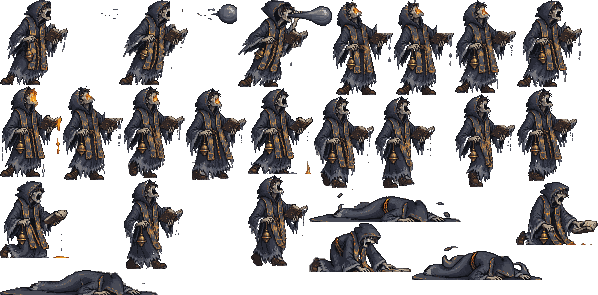
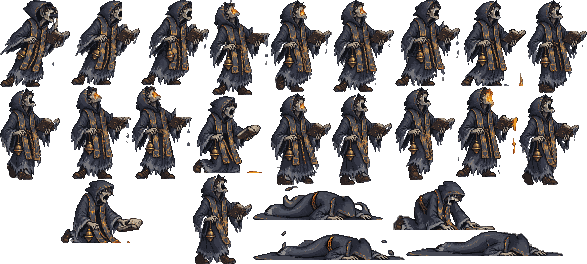
Pulisce le animazioni di Lampionaio, Ricaduto e Cantore e fa nascere il grumo del Cantore nella sua bocca, togliendolo dall'animazione dello sputo

diff --git a/src/sistema/nemici-stanza.ts b/src/sistema/nemici-stanza.ts
@@ -78,6 +78,9 @@ export class NemiciStanza {
   private gVY = new Float32Array(MAX_GRUMI);
   private gSfiorato = new Uint8Array(MAX_GRUMI);
   private gVita = new Float32Array(MAX_GRUMI); // secondi da quando è partito (cerca solo all'inizio)
+  // dove si disegna appena sputato, rispetto al punto a terra: scostamento in orizzontale e altezza (la bocca del Cantore)
+  private gBX = new Float32Array(MAX_GRUMI);
+  private gBH = new Float32Array(MAX_GRUMI);
   // pozze di cera a terra: dove, e quanti secondi restano
   pozze = 0;
   readonly pX = new Float32Array(MAX_POZZE);
@@ -297,7 +300,8 @@ export class NemiciStanza {
             this.tempo[i] = R.recupero;
           }
         } else if (this.tempo[i] <= 0) {
-          this.lancia(o.x[i] + this.dirX[i] * C.raggio, o.y[i] + this.dirY[i] * C.raggio, this.dirX[i], this.dirY[i]);
+          const sx = o.x[i] + this.dirX[i] * C.raggio, lato = this.verso[i] ? -1 : 1;
+          this.lancia(sx, o.y[i] + this.dirY[i] * C.raggio, this.dirX[i], this.dirY[i], o.x[i] + lato * C.bocca.lancio[0] - sx, C.bocca.lancio[1]);
           this.stato[i] = STATO.recupero;
           this.tempo[i] = C.recupero;
           this.ricarica[i] = C.ricarica;
@@ -367,7 +371,8 @@ export class NemiciStanza {
     o.togliStanza(i);
   }
 
-  private lancia(x: number, y: number, dx: number, dy: number): void {
+  /** Un grumo parte da (x, y) a terra in direzione (dx, dy); si disegna dalla bocca (bx px di lato, bh in alto) e scende. */
+  private lancia(x: number, y: number, dx: number, dy: number, bx: number, bh: number): void {
     suona('sparo');
     if (this.grumi >= MAX_GRUMI) return;
     const k = this.grumi++;
@@ -377,6 +382,8 @@ export class NemiciStanza {
     this.gVY[k] = dy * C.grumo.velocita;
     this.gSfiorato[k] = 0;
     this.gVita[k] = 0;
+    this.gBX[k] = bx;
+    this.gBH[k] = bh;
   }
 
   /**
@@ -464,6 +471,8 @@ export class NemiciStanza {
     this.gVY[k] = this.gVY[u];
     this.gSfiorato[k] = this.gSfiorato[u];
     this.gVita[k] = this.gVita[u];
+    this.gBX[k] = this.gBX[u];
+    this.gBH[k] = this.gBH[u];
   }
 
   /** Si può colpire: in campo, con la salute, non a terra. */
@@ -574,7 +583,7 @@ export class NemiciStanza {
       else if (this.bianco[i] > 0 || o.inLampo(i)) sp.setTint(0xffffff).setTintMode(Phaser.TintModes.FILL);
       else if (st === STATO.avviso && Math.floor(this.orologio * 12) % 2 === 0) sp.setTint(colore(o.tipo[i] === ID_RICADUTO ? col.bordo : col.linea)).setTintMode(Phaser.TintModes.ADD);
       else sp.clearTint();
-      if (st === STATO.avviso || this.colpo[i] > 0) this.disegnaAvviso(t, i, x, y);
+      if (st === STATO.avviso || this.colpo[i] > 0) this.disegnaAvviso(t, s, i, x, y);
       if (st !== STATO.aTerra && o.salute[i] < o.saluteMassima[i]) {
         const L = B.larghezza * 2, H = B.altezza * 2, bx = x - Math.floor(L / 2), by = y + B.distanza;
         const pieno = Math.round((B.larghezza - 2) * Math.max(0, o.salute[i] / o.saluteMassima[i])) * 2;
@@ -613,20 +622,23 @@ export class NemiciStanza {
     for (let k = 0; k < this.grumi; k++) {
       const x = Math.round(this.gX[k]), y = Math.round(this.gY[k]);
       t.fillStyle(0x000000).fillEllipse(x, y, 2 * C.grumo.raggio, C.grumo.raggio); // ombra a terra
-      const sp = this.gSprite[k].setPosition(x, y - C.grumo.altezza).setVisible(true);
+      // appena sputato è alla bocca: scende in volo fino alla sua altezza (C.bocca.discesa)
+      const resta = 1 - Math.min(1, this.gVita[k] / C.bocca.discesa), e = resta * resta;
+      const gx = Math.round(x + this.gBX[k] * e), alto = Math.round(C.grumo.altezza + (this.gBH[k] - C.grumo.altezza) * e);
+      const sp = this.gSprite[k].setPosition(gx, y - alto).setVisible(true);
       if (sp.texture.key === E.grumo) sp.setFrame(String(Math.floor(this.gVita[k] * E.fps) % (sp.texture.frameTotal - 1)));
       // la scia: qualche goccia che resta indietro, sempre più piccola
       const v = Math.hypot(this.gVX[k], this.gVY[k]) || 1, ux = this.gVX[k] / v, uy = this.gVY[k] / v;
       for (let n = 1; n <= E.scia; n++) {
         const d = C.grumo.raggio + n * 5, l = Math.max(1, 4 - n);
-        s.fillStyle(colore(n === 1 ? col.grumo : col.grumoBordo)).fillRect(Math.round(x - ux * d - l / 2), Math.round(y - C.grumo.altezza - uy * d - l / 2), l, l);
+        s.fillStyle(colore(n === 1 ? col.grumo : col.grumoBordo)).fillRect(Math.round(gx - ux * d - l / 2), Math.round(y - alto - uy * d - l / 2), l, l);
       }
     }
     for (let k = this.grumi; k < MAX_GRUMI; k++) this.gSprite[k].setVisible(false);
   }
 
   /** Avviso a terra: lo spicchio del graffio che si riempie, o la linea del canto fino al muro. */
-  private disegnaAvviso(g: Phaser.GameObjects.Graphics, i: number, x: number, y: number): void {
+  private disegnaAvviso(g: Phaser.GameObjects.Graphics, sopra: Phaser.GameObjects.Graphics, i: number, x: number, y: number): void {
     const col = NEMICI_STANZA.colori, a = Math.atan2(this.dirY[i], this.dirX[i]);
     if (this.orda.tipo[i] === ID_RICADUTO) {
       const mezza = Phaser.Math.DegToRad(R.graffio.ampiezza / 2), r = R.graffio.raggio;
@@ -639,13 +651,13 @@ export class NemiciStanza {
     }
     // la linea del Cantore: dal Cantore al muro, nella direzione del grumo; lampeggia, poi resta accesa nell'ultimo terzo
     if (this.colpo[i] > 0) return;
+    // il grumo che si forma nella bocca del Cantore mentre canta (sopra lo sprite)
+    const r = Math.max(2, Math.round(C.grumo.raggio * (1 - Math.max(0, this.tempo[i]) / C.avviso)));
+    sopra.fillStyle(colore(col.grumo)).fillCircle(x + (this.verso[i] ? -1 : 1) * C.bocca.canto[0], y - C.bocca.canto[1], r);
     const acceso = this.tempo[i] <= C.avviso / 3 || Math.floor(this.orologio * 8) % 2 === 0;
     if (!acceso) return;
     const lung = this.finoAlMuro(x, y, this.dirX[i], this.dirY[i]);
     g.lineStyle(2, colore(col.linea), 1).lineBetween(x, y, Math.round(x + Math.cos(a) * lung), Math.round(y + Math.sin(a) * lung));
-    // il grumo che si forma davanti al Cantore
-    const r = Math.max(2, Math.round(C.grumo.raggio * (1 - Math.max(0, this.tempo[i]) / C.avviso)));
-    g.fillStyle(colore(col.grumo)).fillCircle(Math.round(x + this.dirX[i] * C.raggio), Math.round(y + this.dirY[i] * C.raggio) - C.grumo.altezza, r);
   }
 
   /** Distanza da (x, y) al bordo del pavimento andando in direzione (dx, dy). */

diff --git a/src/data/stanze.ts b/src/data/stanze.ts
@@ -143,6 +143,10 @@ export const NEMICI_STANZA = {
     avviso: 0.8,
     ricarica: 2.4, // secondi tra la fine di un canto e l'inizio del successivo
     recupero: 0.3,
+    // la bocca del Cantore rispetto ai piedi (px in avanti, px in alto; lo sprite V1 guarda a destra): mentre canta il grumo
+    // cresce lì, quando sputa parte da «lancio» e scende in volo fino a grumo.altezza in «discesa» secondi (14/11, da rivedere;
+    // se cambia lo sprite vanno rimisurate)
+    bocca: { canto: [7, 87], lancio: [46, 72], discesa: 0.3 },
     grumo: { velocita: 210, raggio: 9, danno: 12, altezza: 20, ricerca: 1.4, virata: 125 }, // virata 125 dal 13/11 notte (era 100; Edoardo: «leggermente più aggressivo») // altezza: quanto sopra il terreno si disegna; velocità 210 dal 13/11 sera (era 140, Edoardo: «lentissimo»; da rivedere)
   },
   // la pozza di cera dove il grumo scoppia, contro il muro o su di te (decisione di Edoardo del 13/11: resta 2 s e fa danno a chi

diff --git a/docs/GDD.md b/docs/GDD.md
@@ -774,7 +774,7 @@ Il gioco a stanze nasce accanto al survivor e si raggiunge **solo dal link di pr
 - **Il Lampionaio si può ferire**: 100 di salute. La salute non si rigenera da sola: lo farà con oggetti o poteri che lo permettono, da inventare (decisione di Edoardo del 13/11). La barra della salute è quella del survivor, sotto i piedi. Colpito, si illumina di bianco, lo schermo trema un poco e il telefono vibra. Toccare un nemico non fa male: fa male solo un attacco con il suo avviso (confermato da Edoardo il 13/11).
 - **Quiete** (decisione di Edoardo del 13/11): dopo un colpo, per un attimo non si prendono altri danni. Il Lampionaio resta in Quiete 0,5 s (lampeggia); è una sua statistica, che le carte potranno migliorare. I nemici restano in Quiete 0,3 s, ma **ogni arma ha la sua**: la Lanterna non ferisce di nuovo lo stesso nemico per 0,3 s, il Cerchio di luce sì (e viceversa). Il Cerchio di luce prova a ferire ogni 0,25 s, quindi con la Quiete prende ogni nemico ogni 0,5 s. È la stessa parola della Quiete delle reazioni (un nemico non reagisce di nuovo per 3 s), scelta di Edoardo.
 - **Il Ricaduto** (sprite V1 del 13/11 fatto con PixelLab: un contadino morto da poco, curvo, con un forcone a tre rebbi e una crepa di Lumen sul petto) cammina dritto e lento verso il Lampionaio. A 56 px si ferma e comincia l'**avviso**: alza il forcone sopra la testa a due mani (la prima metà dell'animazione `attack`, stirata sulla durata dell'avviso, così il forcone cala nell'istante del danno), lampeggia di rosso e a terra compare uno spicchio rosso davanti a lui che si riempie. La direzione è decisa all'inizio dell'avviso. Allo scadere graffia tutto lo spicchio, poi resta fermo un attimo. Battuto, fa la sua animazione `death` e resta sempre a terra 1,5 s, senza segni e senza poter essere colpito (decisione di Edoardo del 13/11); poi, 2 volte su 10 (decisione di Edoardo del 13/11 sera), si rialza con metà della salute, se no sparisce. Si rialza una volta sola.
-- **Il Cantore** (sprite V1 del 13/11 fatto con PixelLab: un cantore dei funerali con tonaca grigio-azzurra, cappuccio e libro dei canti, la bocca accesa di Lumen) resta tra 200 e 250 px dal Lampionaio: si allontana se ti avvicini, si avvicina se ti allontani. Quando ha ricaricato e sei entro 360 px si ferma, e a terra compare una **linea arancione** verso di te fino al muro (l'avviso; gli avvisi a distanza sono arancioni, quelli corpo a corpo rossi: decisione di Edoardo del 13/11): lampeggia, resta accesa nell'ultimo terzo, e davanti a lui il grumo cresce. Poi lancia un grumo di Lumen spento che **ti cerca** (decisione di Edoardo del 13/11 sera): per 1,4 s gira verso di te, ma di al massimo 125° al secondo, poi va dritto. Così non è impossibile da schivare: chi cammina si allontana più svelto del grumo (270 contro 210 px/s), e un passo di lato quando il grumo è a circa 45 px lo fa passare oltre (la schivata perfetta). Una schivata sola per grumo. In volo il grumo è una goccia di cera grigio-azzurra che ribolle, con una scia di tre gocce (effetto pixelfx disegnato per il gioco, `Pixelfx_Cera_grumo`). Quando scoppia, contro il muro o su di te, lascia una **pozza di cera** a terra dello stesso colore: uno schizzo con una corona di gocce, poi la pozza larga 68 px (alta la metà) con riflessi e bolle; resta 2 s e alla fine si rapprende e sparisce a retino (`Pixelfx_Cera_pozza`); ferisce di 6 chi ci passa sopra (il danno segue la Quiete del Lampionaio: al massimo uno ogni 0,5 s) e negli ultimi 0,3 s la sua area si restringe. Al massimo 16 pozze insieme (*raggio, danno e ricerca da rivedere*).
+- **Il Cantore** (sprite V1 del 13/11 fatto con PixelLab: un cantore dei funerali con tonaca grigio-azzurra, cappuccio e libro dei canti, la bocca accesa di Lumen) resta tra 200 e 250 px dal Lampionaio: si allontana se ti avvicini, si avvicina se ti allontani. Quando ha ricaricato e sei entro 360 px si ferma, e a terra compare una **linea arancione** verso di te fino al muro (l'avviso; gli avvisi a distanza sono arancioni, quelli corpo a corpo rossi: decisione di Edoardo del 13/11): lampeggia, resta accesa nell'ultimo terzo, e il grumo cresce nella sua bocca mentre canta. Quando lo sputa, il grumo parte dalla bocca e in 0,3 s scende in volo fino alla sua altezza (`bocca` in `NEMICI_STANZA.cantore`: [7, 87] mentre canta e [46, 72] quando sputa, px in avanti e in alto dai piedi, misurati sullo sprite V1; *da rivedere*). L'animazione dello sputo non disegna più il grumo: lo disegna solo il gioco. Poi lancia un grumo di Lumen spento che **ti cerca** (decisione di Edoardo del 13/11 sera): per 1,4 s gira verso di te, ma di al massimo 125° al secondo, poi va dritto. Così non è impossibile da schivare: chi cammina si allontana più svelto del grumo (270 contro 210 px/s), e un passo di lato quando il grumo è a circa 45 px lo fa passare oltre (la schivata perfetta). Una schivata sola per grumo. In volo il grumo è una goccia di cera grigio-azzurra che ribolle, con una scia di tre gocce (effetto pixelfx disegnato per il gioco, `Pixelfx_Cera_grumo`). Quando scoppia, contro il muro o su di te, lascia una **pozza di cera** a terra dello stesso colore: uno schizzo con una corona di gocce, poi la pozza larga 68 px (alta la metà) con riflessi e bolle; resta 2 s e alla fine si rapprende e sparisce a retino (`Pixelfx_Cera_pozza`); ferisce di 6 chi ci passa sopra (il danno segue la Quiete del Lampionaio: al massimo uno ogni 0,5 s) e negli ultimi 0,3 s la sua area si restringe. Al massimo 16 pozze insieme (*raggio, danno e ricerca da rivedere*).
 - **Animazioni dei nemici** (dal 14/11): l'avviso è la prima metà di `attack` stirata sulla sua durata, la seconda metà scorre nel recupero (il Cantore canta, poi sputa il grumo). Il Ricaduto che si rialza fa `death` al contrario, fermo finché non è in piedi. Il Cantore battuto fa `death`, intoccabile, e poi sparisce. Uno sprite senza questi tag trema nell'avviso e a terra si stende di lato e si scurisce.
 - I nemici non si sovrappongono tra loro. Ferito, un nemico mostra sotto i piedi una barra della salute piccola.
 - **Grazia** (`GRAZIA_STANZA`; partita da quella del survivor, si sviluppa per conto suo: decisione di Edoardo del 13/11): la schivata perfetta è uscire dallo spicchio del graffio quando mancano al massimo 0,25 s, oppure farsi passare un grumo vicino, entro 30 px oltre il contatto, senza farsi toccare. Nell'istante della schivata il gioco va **al rallentatore**: parte al 60% della velocità e torna normale in 0,35 s con una curva morbida. La logica avanza comunque 60 volte al secondo, a passi più corti, così non va a scatti. Poi 3 s di Grazia: +30% danno (anche del Cerchio di luce) e +15% velocità, il Lampionaio si illumina a lampi e sopra la testa compare «Grazia». Una Grazia nuova non accorcia quella in corso. Durata, finestra, sfioro e bonus sono statistiche del Lampionaio che le carte del passo 6 potranno migliorare. Le tacche del survivor non ci sono.

diff --git a/docs/asset_da_creare.md b/docs/asset_da_creare.md
@@ -12,7 +12,7 @@ Per la fetta verticale **non serve disegnare niente in anticipo**: ogni pezzo na
 | **Lampionaio del restyle: ritratto** | selezione del personaggio; in futuro dialoghi e guida | **V4 del 13/11** nel gioco: l'immagine di ChatGPT riportata alla griglia, tela nuova 260 × 387 (decisione di Edoardo: non si rimpicciolisce), `PERSONAGGI/Il Lampionaio/Il_Lampionaio_V4.aseprite`. La scheda lo ingrandisce di un numero intero di pixel veri fino all'altezza di prima (`SCHEDA_SELEZIONE`, `src/data/hud.ts`) |
 | **Fendente della Lanterna** (gioco a stanze) | colpo a tasto del Lampionaio, al posto dell'arco sottile | **V0 del 13/11** da pixelfx, disegnato per il gioco (`tools/pixelfx/fx/lanterna/fendente.js`): `segnaposto/EFFETTI/Pixelfx Fendente <raggio>/Pixelfx_Fendente_<raggio>_V0.aseprite` per 136, 160 e 183 px. In ogni file 18 fotogrammi da 40 ms: 6 per la direzione 0° (a destra), 6 per 22,5° e 6 per 45° (in basso a destra), centro al centro della tela; il gioco ricava le altre direzioni ribaltando e girando. Un `_V1` con lo stesso ordine li sostituisce |
 | **Restyle degli altri personaggi** (Becchino, Badessa, Strega; più avanti Sguattera e Veggente) | ritratti e sprite in gioco | immagini del restyle di Edoardo; sprite in gioco e animazioni con lo stesso metodo del Lampionaio, con le sue proporzioni, quando servono |
-| **Il Ricaduto** e **il Cantore** (restyle del 13/11) | nemici della fetta | **bozze V1 del 13/11** fatte con PixelLab partendo dalle immagini di ChatGPT di Edoardo (riportate alla griglia in `DEATH'S LUMEN/BOZZE/Il Ricaduto` e `Il Cantore`): `NEMICI/Ricaduto/Ricaduto_V1.aseprite` con `walk`, `attack` (forcone alzato a due mani come avviso, 0,5 s, poi il colpo a terra) e `death` (il ritorno in vita sarà la morte al contrario); `NEMICI/Cantore/Cantore_V1.aseprite` con `walk`, `attack` (il canto come avviso, 0,8 s, poi lo sputo) e `death` (14/11: crolla in un mucchio di cera). Tela 196 × 132, piedi in basso al centro, guardano a destra. Il gioco usa tutti i tag dal 14/11: se ritocchi le animazioni, la prima metà di `attack` è l'avviso. Ritocchi a mano fatti da Claude: il rebbo centrale del forcone, il terzo braccio del Cantore tolto. Grumo, spicchio e linea a terra restano come sono |
+| **Il Ricaduto** e **il Cantore** (restyle del 13/11) | nemici della fetta | **bozze V1 del 13/11** fatte con PixelLab partendo dalle immagini di ChatGPT di Edoardo (riportate alla griglia in `DEATH'S LUMEN/BOZZE/Il Ricaduto` e `Il Cantore`): `NEMICI/Ricaduto/Ricaduto_V1.aseprite` con `walk`, `attack` (forcone alzato a due mani come avviso, 0,5 s, poi il colpo a terra) e `death` (il ritorno in vita sarà la morte al contrario); `NEMICI/Cantore/Cantore_V1.aseprite` con `walk`, `attack` (il canto come avviso, 0,8 s, poi lo sputo) e `death` (14/11: crolla in un mucchio di cera). Tela 196 × 132, piedi in basso al centro, guardano a destra. Il gioco usa tutti i tag dal 14/11: se ritocchi le animazioni, la prima metà di `attack` è l'avviso. **Pulizia del 14/11** (anche del Lampionaio V6): pixel sparsi e buchi sistemati con `repair` di PixelLab, puntini staccati e resti chiari dello sfondo tolti; nello sputo del Cantore il grumo disegnato è stato cancellato (resta un filo di cera alle labbra), perché il grumo vero lo disegna il gioco partendo dalla bocca: se ritocchi la testa del Cantore, la posizione della bocca è in `NEMICI_STANZA.cantore.bocca`. Ritocchi a mano fatti da Claude: il rebbo centrale del forcone, il terzo braccio del Cantore tolto. Grumo, spicchio e linea a terra restano come sono |
 | **La stanza**: pavimento, muri, porte | passi 2 e 6 della fetta | pavimento e muri: segnaposto dal codice (`src/sistema/stanza.ts`), misure in `src/data/stanze.ts` e nel GDD: lastre da 64 px, facciata del muro in alto alta 96 px a mattoni da 32 × 16, muri ai lati e in basso spessi 32 px, pavimento 13 × 7 lastre, 832 × 448 (alla Isaac; *da rivedere*). Porte: segnaposto dal codice (`src/sistema/porte.ts`), un vano scuro con le sbarre (chiusa) o con la cornice arancione (aperta): in alto 64 × 56 px nella facciata, ai lati e in basso 32 × 64 e 64 × 32. Servono due versioni, chiusa e aperta, per ogni muro |
 | **Simboli delle porte**: uno per affinità (Luce, Sacro, Ombra, Terra) e uno per il dono | porte che mostrano la ricompensa (passo 6, fatto il 13/11) | oggi i simboli degli stati (Simbolo_Abbagliato, _Consacrato, _Maledetto, _Sepolto) ingranditi 2 volte, e per il dono un rombo dorato di 11 × 11 dal codice |
 | **Joystick del gioco a stanze** (movimento e attacco), **pulsante dell'abilità** e **pulsante della pausa** | HUD del telefono in orizzontale | disegnati dal codice dal 13/11 (`src/sistema/joystick-stanze.ts`, `src/sistema/abilita-stanza.ts`), solo se vuoi rifarli tu: movimento = anello crema sottile con pomello pieno; attacco = disco nel colore del personaggio con una fiammella come pomello (base 72 × 72, pomello 28 × 28; il codice lo scurisce durante la ricarica e li rende trasparenti al 70%); abilità = tondo scuro di 36 × 36 con l'icona del Cerchio di luce e un anello che si riempie. Pausa: segnaposto dal codice di 14 × 14 ingrandito 2 volte. I tuoi Joystick_Base e Joystick_Pomello restano al survivor |

diff --git a/docs/decisioni.md b/docs/decisioni.md
@@ -10,6 +10,7 @@ Regole del registro (4 novembre 2026, scelte di Edoardo):
 | Data | Decisione | Motivo |
 | --- | --- | --- |
 | 2026-11-13 | **La pozza di cera ha il colore del grumo** (è cera), **nasce anche quando il grumo colpisce il personaggio**; grumo e pozza hanno **effetti pixelfx** fatti apposta per il gioco (la libreria ha solo pozze viste di lato). **Il glossario del gioco va uniformato**, come l'oracle text di Magic: sessione dedicata | Terza prova di Edoardo, 13/11 notte. Effetti disegnati con il metodo di pixelfx invece di PixelLab: gratis, nel progetto, rifacibili e ricolorabili |
+| 2026-11-14 | **Pulizia delle animazioni** (Lampionaio, Ricaduto, Cantore) e **un solo grumo del Cantore**: l'animazione dello sputo non lo disegna più; il grumo del gioco cresce nella bocca mentre il Cantore canta e parte dalla bocca quando sputa | Edoardo, 14/11: pixel sporchi; animazione e colpo del Cantore sembravano scollegati e ripetuti |
 | 2026-11-14 | **I nemici usano attacco e morte**: l'avviso è la prima metà dell'animazione d'attacco, stirata sulla durata dell'avviso; il Ricaduto si rialza facendo la morte al contrario; il Cantore battuto fa la morte e poi sparisce. Per le generazioni di PixelLab si va avanti con il bonus gratuito (5 al giorno) | Edoardo, 14/11 |
 | 2026-11-13 | **Ricaduto e Cantore nel gioco** con gli sprite fatti con PixelLab dalle immagini di ChatGPT (troppo «anime» e con lo stesso viso, ma buone come basi): il Ricaduto diventa un contadino di mezza età con un **forcone a tre rebbi**, il Cantore ha **due braccia** | Edoardo, 13/11: usare le immagini come basi; correzioni del forcone e del braccio in più chieste da lui |
 | 2026-11-13 | **Il danno non è un numero fisso ma un intervallo** (per esempio 7–15): ogni colpo tira un numero a caso tra il minimo e il massimo, e le carte lo fanno crescere (aggiungere un intervallo, aumentare in percentuale), come negli RPG e nei roguelite (esempio di Edoardo: le armi di Path of Exile 2). Vale per il gioco a stanze; il survivor resta com'è. Ampiezza degli intervalli e modo di crescere da proporre in una sessione dedicata | Edoardo, 13/11, dopo la prova del colpo intero |

diff --git a/docs/roadmap.md b/docs/roadmap.md
@@ -159,6 +159,7 @@ Tutte le voci «da rivedere» sparse nei documenti: valori e scelte proposti da 
 
 | Voce | Dove è scritta |
 | --- | --- |
+| Bocca del Cantore (`NEMICI_STANZA.cantore.bocca`: [7, 87] nel canto, [46, 72] nello sputo, discesa 0,3 s), misurata sullo sprite V1 | GDD «Il Cantore» |
 | Lampionaio V6 (restyle del 13/11): durate dei fotogrammi della mossa (40, 40, 40, 35, 50, 50, 60, 70 ms) e danno a 0,155 s (`ATTACCO.anticipo`); Fendente: un foglio per misura (136, 160, 183), con i bonus d'area il disegno può restare un po' più piccolo dell'area vera | GDD «L'attacco a tasto»; `PIXELFX.fendente` |
 | Barre della salute (personaggio 41 × 9 px con 1 di bordo per lato, decisa da Edoardo il 10/11 sera; Seth alta 12 px; rosso `#c0262d`, vuoto `#3a0c10`; scorrimento 0,5 s, ambra `#d98a2b` per il danno, verde `#6fbf4a` per la cura) e grandezza del conto alla rovescia dell'abilità (16) | GDD §HUD; `src/data/mondo.ts` (`BARRA_SALUTE`), `src/data/hud.ts` (`BARRA_SETH`, `TESTI`) |
 | Stati certi, regola del gioco dal 10/11: tutti i numeri di `STATI_CERTI` (ritmo delle zone 1 s, quiete 3 s, Eclissi 10% senza tetto e ×2 del colpo su élite e Seth, Esorcismo 3 × 60%, Rivelazione +50% per difetto solo da 2 anime in su, Interramento Luce +50%, Sacro 2,5 s, Ombra ×2), i casi senza colpo, l'ordine dell'Interramento con più stati, il tetto dei cerchi (12) *(Gioco a stanze: l'Eclissi su mini-boss e Boss scende al 5% con Quiete di 6 s, decisione del 12/11.)* | GDD §8c; `src/data/stati.ts`; decisioni 10/11 |
